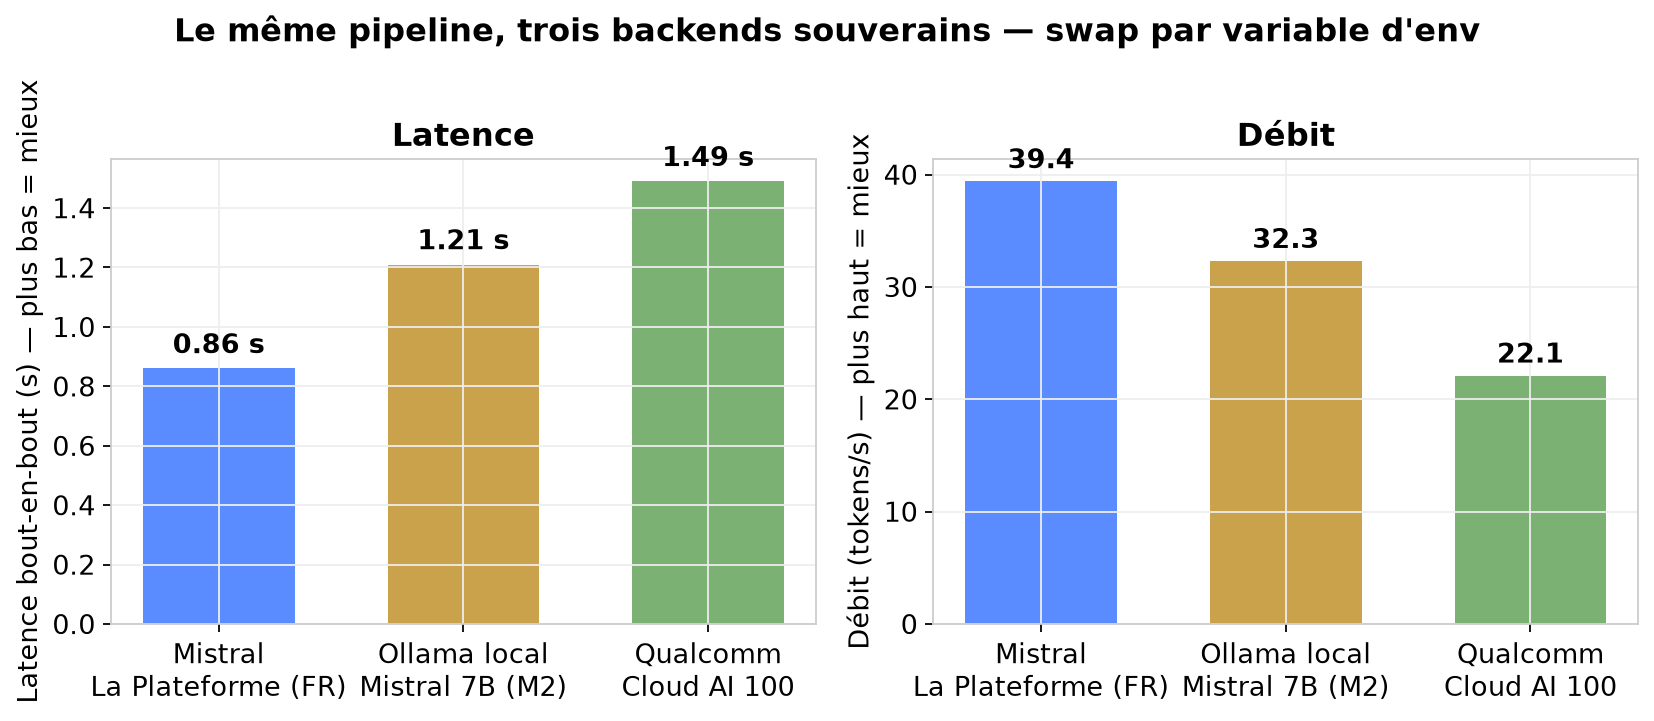
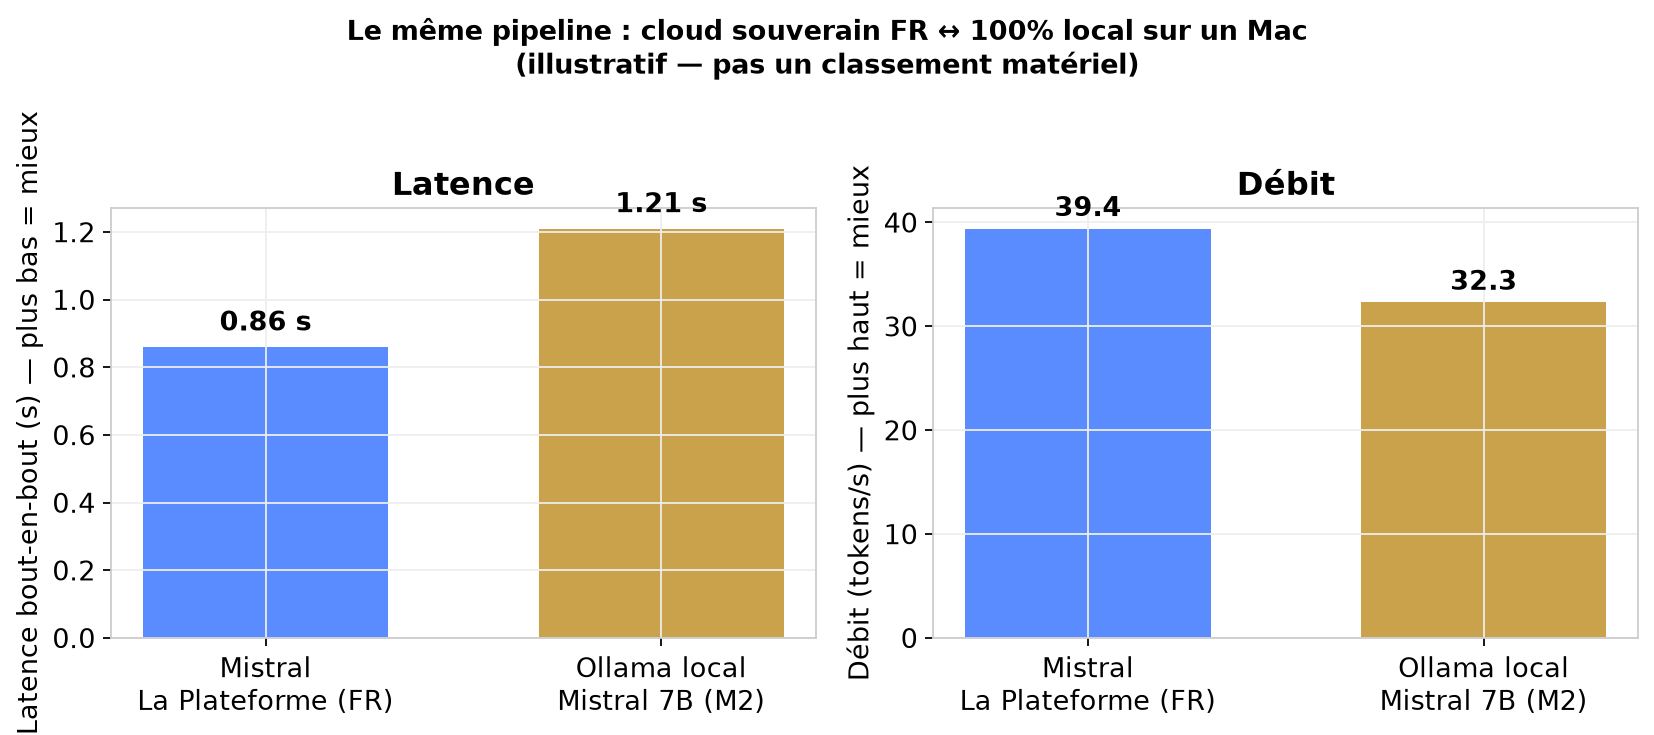
deck 07b: graphique-thèse hallucination en héros + retrait Qualcomm du perf
Feedback Wilfred : le comparatif perf n'est pas apples-to-apples et l'endpoint
Qualcomm mesuré était l'essai gratuit Cirrascale (non représentatif du Cloud AI 100).
- slide 07b : hero = hallucination_thesis.png (petit modèle local 83% -> Le Rapporteur 0%)
- perf llm_backends : retrait Qualcomm, reframe 'portabilité' (pas un classement)
- results.md : caveat apples-to-apples + explication endpoint gratuit + roadmap comparo matériel
- message model-agnostique renforcé : plus on veut frugal/local, plus la vérif est indispensable

diff --git a/benchmarks/plot_benchmarks.py b/benchmarks/plot_benchmarks.py
@@ -48,11 +48,14 @@ fig.tight_layout()
 fig.savefig("benchmarks/compute_kernel.png", dpi=160)
 print("écrit benchmarks/compute_kernel.png")
 
-# --- Graphique 2 : backends LLM souverains (même prompt, même pipeline) ---
-backends = ["Mistral\nLa Plateforme (FR)", "Ollama local\nMistral 7B (M2)", "Qualcomm\nCloud AI 100"]
-latency = [0.86, 1.21, 1.49]      # s, bout-en-bout
-tokps = [39.4, 32.3, 22.1]        # tokens/s
-colors2 = [BLUE, GOLD, "#7bb274"]
+# --- Graphique 2 : portabilité (même pipeline, cloud souverain FR <-> 100% local) ---
+# NB : illustratif, PAS un classement matériel apples-to-apples (modèles/infras
+# différents). On retire le backend d'essai gratuit Qualcomm : son endpoint partagé
+# n'est pas représentatif du Cloud AI 100 Ultra (cf. graphique frugalité, UCSD).
+backends = ["Mistral\nLa Plateforme (FR)", "Ollama local\nMistral 7B (M2)"]
+latency = [0.86, 1.21]            # s, bout-en-bout
+tokps = [39.4, 32.3]              # tokens/s
+colors2 = [BLUE, GOLD]
 
 fig, (axL, axR) = plt.subplots(1, 2, figsize=(10.5, 4.4))
 
@@ -68,8 +71,8 @@ axR.set_title("Débit", fontweight="bold")
 for b, v in zip(b2, tokps):
     axR.text(b.get_x() + b.get_width() / 2, v + 0.6, f"{v:g}", ha="center", va="bottom", fontweight="bold")
 
-fig.suptitle("Le même pipeline, trois backends souverains — swap par variable d'env",
-             fontweight="bold", y=1.02)
+fig.suptitle("Le même pipeline : cloud souverain FR ↔ 100% local sur un Mac\n(illustratif — pas un classement matériel)",
+             fontweight="bold", y=1.04, fontsize=12)
 fig.tight_layout()
 fig.savefig("benchmarks/llm_backends.png", dpi=160, bbox_inches="tight")
 print("écrit benchmarks/llm_backends.png")
@@ -93,3 +96,25 @@ ax.text(0.5, -10, "Donnée externe citée, non mesurée par nous — 12 LLM open
 fig.tight_layout()
 fig.savefig("benchmarks/energy_efficiency.png", dpi=160, bbox_inches="tight")
 print("écrit benchmarks/energy_efficiency.png")
+
+# --- Graphique 4 : la thèse — hallucination de citation, LLM seul vs Le Rapporteur ---
+# Données agrégées de notre mini-étude (12 questions, vérité-terrain = bon article).
+# Agrégé PAR CATÉGORIE volontairement : le classement par-modèle reste privé (papier).
+#   petit modèle local (Mistral 7B) : 10/12 hallucinations  -> 83%
+#   grand modèle (moyenne 5 modèles cloud testés) : 5/60    -> 8%
+#   Le Rapporteur (LLM + vérification Canutes) : 0 présentée -> 0%
+cats = ["Petit modèle local\n(frugal, souverain)", "Grand modèle\n(moyenne testée)", "Le Rapporteur\n(LLM + vérification)"]
+hallu_rate = [83, 8, 0]
+colors4 = ["#d9534f", "#e0a458", "#7bb274"]
+fig, ax = plt.subplots(figsize=(8.2, 4.6))
+bars = ax.bar(cats, hallu_rate, color=colors4, width=0.6)
+ax.set_ylabel("% de citations hallucinées")
+ax.set_title("On ne fait confiance à aucun modèle, on vérifie\nCitation juridique fausse : LLM seul vs Le Rapporteur", fontweight="bold")
+ax.set_ylim(0, 95)
+for b, v in zip(bars, hallu_rate):
+    ax.text(b.get_x() + b.get_width() / 2, v + 1.5, f"{v}%", ha="center", va="bottom", fontweight="bold", fontsize=14)
+fig.text(0.5, 0.01, "Mini-étude interne, 12 questions, vérité-terrain = article correct. Détail par modèle gardé privé.",
+         ha="center", fontsize=8.5, color="#777")
+fig.tight_layout()
+fig.savefig("benchmarks/hallucination_thesis.png", dpi=160, bbox_inches="tight")
+print("écrit benchmarks/hallucination_thesis.png")

diff --git a/benchmarks/results.md b/benchmarks/results.md
@@ -16,16 +16,27 @@ Code et détail : [`examples/mojo/`](../examples/mojo/).
 
 Les trois trouvent le même `best_idx` (contrôle inter-langage).
 
-## 2. Backends LLM souverains — `llm_backends.png`
+## 2. Portabilité (PAS un benchmark de perf) — `llm_backends.png`
 
-Même prompt, même pipeline, réponse courte (~33-39 tokens). Latence **bout-en-bout**
-(réseau inclus pour les backends cloud) → chiffres conservateurs, pas un classement absolu.
+⚠️ **Ce n'est pas un classement matériel apples-to-apples** : modèles et infras
+différents. C'est une **démonstration de portabilité** — le même pipeline tourne du
+cloud souverain FR au 100 % local sur un Mac, en changeant une variable d'env.
 
-| Backend | Latence | Débit | Souveraineté |
+| Backend | Latence | Débit | Rôle |
 |---|---|---|---|
-| Mistral La Plateforme (FR) | 0,86 s | 39,4 tok/s | juridiction FR |
+| Mistral La Plateforme (FR) | 0,86 s | 39,4 tok/s | cloud souverain FR |
 | Ollama local, Mistral 7B (M2 Pro) | 1,21 s | 32,3 tok/s | 100 % local, hors-ligne |
-| Qualcomm Cloud AI 100 (Llama-3.1-8B) | 1,49 s | 22,1 tok/s | silicium non-NVIDIA |
+
+**Qualcomm Cloud AI 100 retiré du graphique** : l'endpoint mesuré était un **essai
+gratuit Cirrascale** (instance partagée/bridée, modèle Llama-3.1-8B), ~1,49 s / 22
+tok/s — **non représentatif** du Cloud AI 100 Ultra. Sa vraie force (frugalité) est
+au §3, sourcée UCSD. Un vrai comparatif matériel demanderait le **même modèle** sur
+NVIDIA / AMD / Qualcomm (serveur) et Apple / Snapdragon X Elite (bureau) — travaux futurs.
+
+## 2bis. La thèse — hallucination — `hallucination_thesis.png`
+
+Agrégé de la mini-étude (§4) : petit modèle local **83 %** d'hallucination, grand
+modèle **~8 %**, **Le Rapporteur 0 %** (présentée). Le graphique clé du projet.
 
 ## 3. Frugalité — `energy_efficiency.png`
 

diff --git a/presentation/slides.md b/presentation/slides.md
@@ -368,29 +368,30 @@ benchmarké contre Python, alimente le panneau de frugalité.</p>
 
 ---
 
-<div class="kicker mb-2">07b · Benchmarks mesurés</div>
+<div class="kicker mb-2">07b · Ce qu'on a mesuré</div>
 
-# Mesuré sur un MacBook, pas promis
+# On ne fait confiance à aucun modèle
 
 <div class="mt-2 text-sm" style="color: var(--lr-muted)">
-Le <b>même pipeline</b>, trois backends souverains, échangés par une seule variable
-d'environnement. Latence et débit <b>réels</b> sur un M2 Pro.
+Mini-étude : <b>12 questions de droit</b>, vérité-terrain = le <b>bon article</b>.
+Même les grands modèles se trompent. Et le petit modèle local, idéal pour la
+<b>frugalité et la souveraineté</b>, se trompe le plus.
 </div>
 
 <div class="mt-3 flex justify-center">
-<img src="/benchmarks/llm_backends.png" style="width: 82%; border-radius: 10px; box-shadow: 0 6px 24px rgba(0,0,0,.18)" />
+<img src="/benchmarks/hallucination_thesis.png" style="width: 72%; border-radius: 10px; box-shadow: 0 6px 24px rgba(0,0,0,.18)" />
 </div>
 
 <div class="mt-3 text-sm" style="color: var(--lr-muted)">
-Sur la même question, les trois modèles ont <b style="color: var(--lr-gold)">inventé</b>
-un numéro d'article (Ollama : L.3121-1 ; Qualcomm/Llama : L.3122-2 ; le bon est
-L.3121-27). <b>On ne fait confiance à aucun modèle, on vérifie.</b>
+Notre couche de vérification ramène l'hallucination <b>présentée</b> à
+<b style="color: var(--lr-gold)">zéro</b>, quel que soit le modèle. C'est ce qui rend
+une IA juridique <b>locale et frugale</b> digne de confiance.
 </div>
 
 <div class="foot"><span>LE RAPPORTEUR</span><span>07B / BENCHMARKS</span></div>
 
 <!--
-[Benchmarks] Tout ce qu'on montre ici, on l'a mesuré ce matin sur un simple MacBook M2 Pro. Le même pipeline tourne sur Mistral La Plateforme souverain français, sur un Mistral 7B 100% local via Ollama, et sur Qualcomm Cloud AI 100, juste en changeant une variable d'environnement. Et le point le plus important : sur la même question, les trois modèles ont inventé un numéro d'article de loi. C'est exactement ce que notre couche de vérification attrape. On ne fait confiance à aucun modèle, on vérifie.
+[Benchmarks] On a lancé une mini-étude ce matin : douze questions de droit, avec à chaque fois le bon article comme vérité-terrain. Résultat, même les grands modèles se trompent d'article. Et surtout, le petit modèle qu'on ferait tourner localement pour la frugalité et la souveraineté est celui qui hallucine le plus, huit fois sur dix. C'est contre-intuitif et c'est tout notre argument : plus on veut une IA frugale et locale, plus la vérification devient indispensable. Notre couche de vérification ramène l'hallucination présentée à zéro, quel que soit le modèle en dessous. Le détail par modèle, on le garde pour notre article de recherche.
 -->
 
 ---